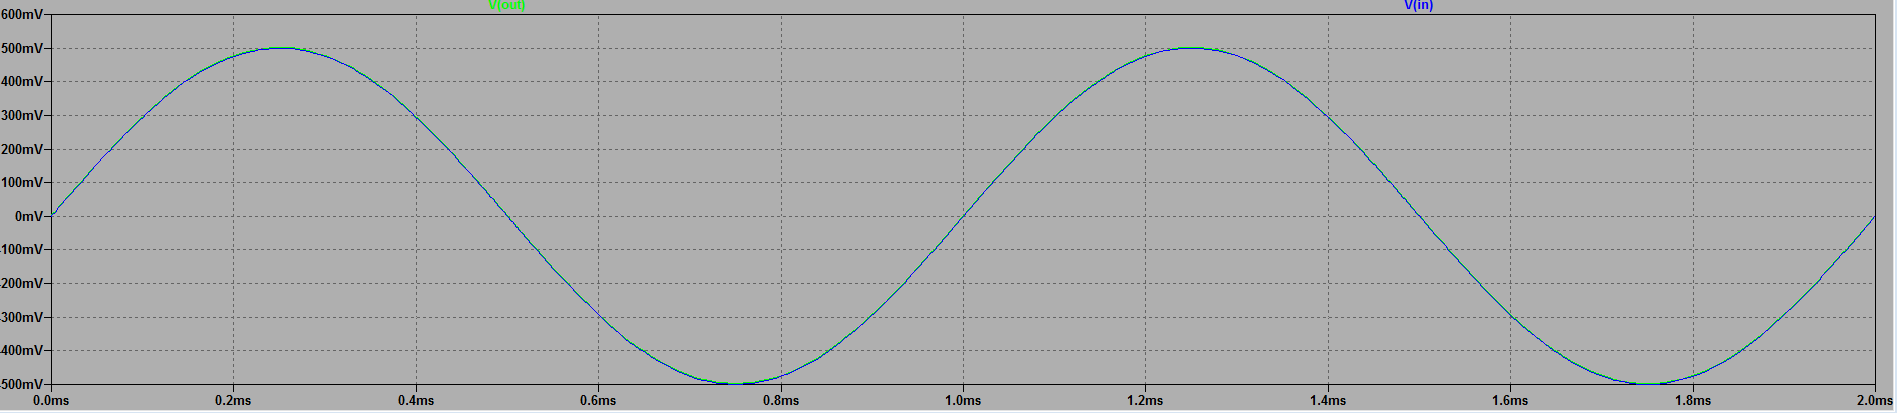
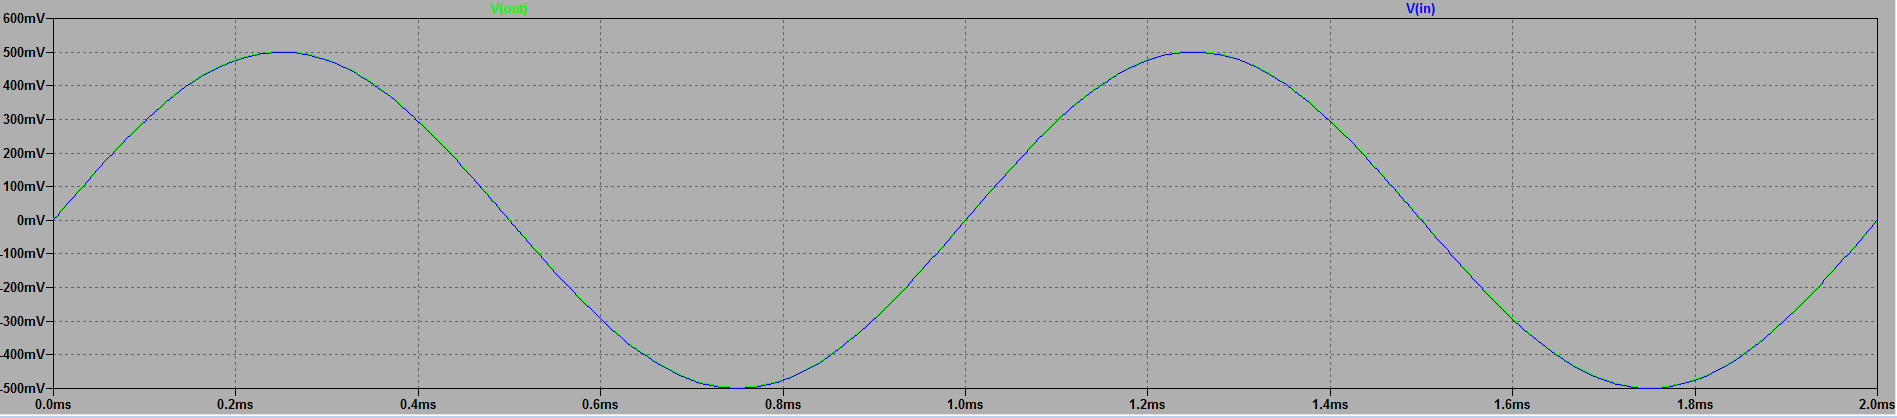
Modificaçõs nas imagens e adicionado texto sobre medidas

diff --git a/relatorio_01.md b/relatorio_01.md
@@ -8,21 +8,34 @@
 
 Idealmente temos:
 
-Vi = Vo
+Vout = Vin
 
 Circuito simulado:
 
-![Esquemático Buffer]()
+![Esquemático Buffer](https://github.com/rafakeu/Relatorio_ELN01/blob/master/img/Buffer_esquematico.png)
 
 E como resultado da simulação
 
 Para o LM324N:
 
-![Buffer LM324N]()
+![Buffer LM324N](https://github.com/rafakeu/Relatorio_ELN01/blob/master/img/Buffer_LM324.png)
+
+Podemos observar que Vout não possui o mesmo valor de Vin, considerando que o período da onda é de 1ms temos que a tensão de pico positiva será em t = 0,25ms e a tensão máxima negativa será em t = 0,75ms.
+
+As medidas obtidas nesse pontos são:
+
+Tensão de pico posiva:
+
+![Medidas obtidas](https://github.com/rafakeu/Relatorio_ELN01/blob/master/img/LM324_Buffer_Vpos.png)
+
+E tensão de pico negativa:
+
+![Medidas obtidas](https://github.com/rafakeu/Relatorio_ELN01/blob/master/img/LM324_Buffer_Vneg.png)
+
 
 Para o TL082:
 
-![Buffer TL082]()
+![Buffer TL082](https://github.com/rafakeu/Relatorio_ELN01/blob/master/img/Buffer_TL082.png)
 
 Comparando os resultados:
 

diff --git a/README.md b/README.md
@@ -12,6 +12,6 @@ Aluno:
 
 Relatórios:
 
-* [Ampop Não ideal](/*link*/)
+* [Ampop Não ideal](https://github.com/rafakeu/Relatorio_ELN01/blob/master/relatorio_01.md)
 
-* [Circuitos Retificadores](/*link*/)
+* [Circuitos Retificadores](https://github.com/rafakeu/Relatorio_ELN01/blob/master/relatorio_02.md)
